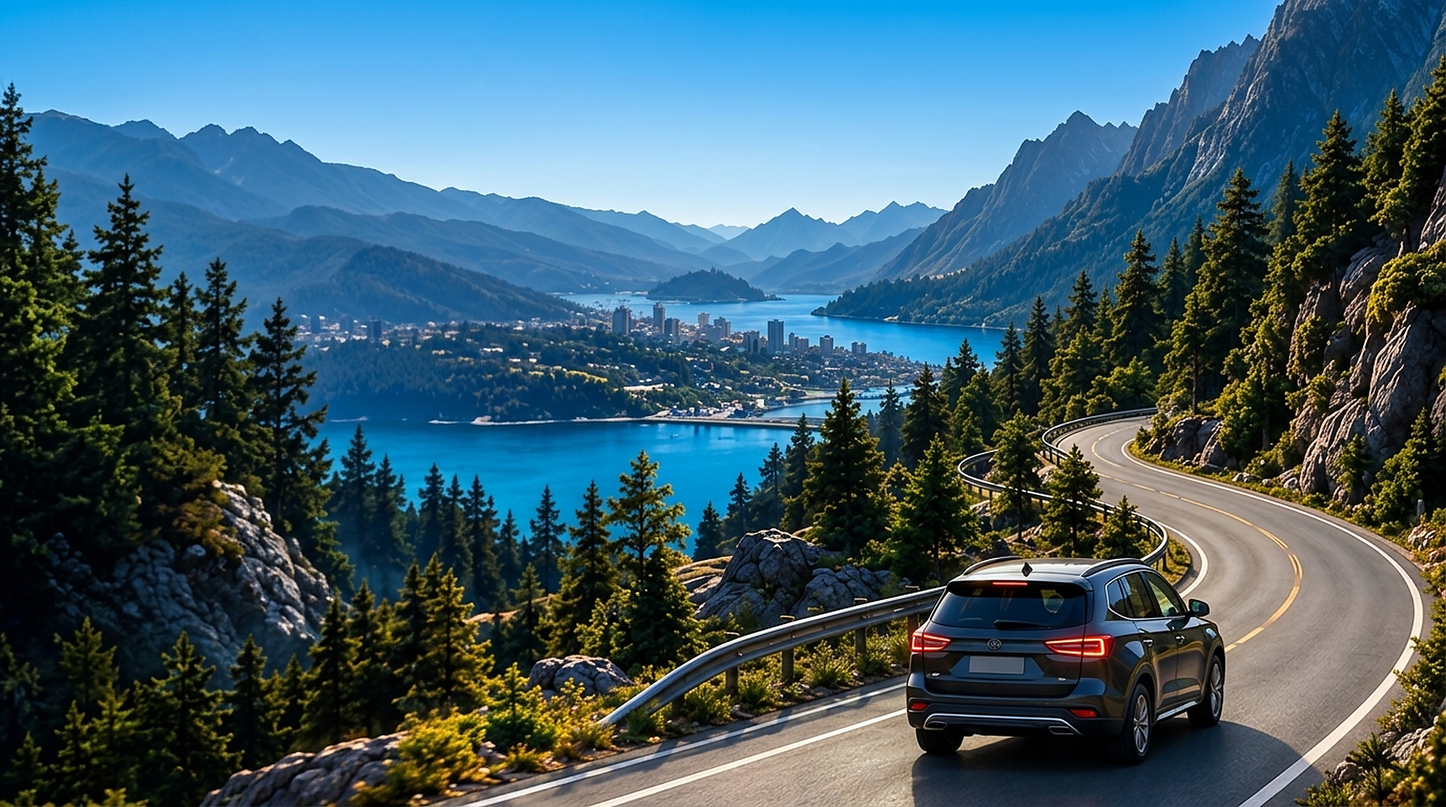
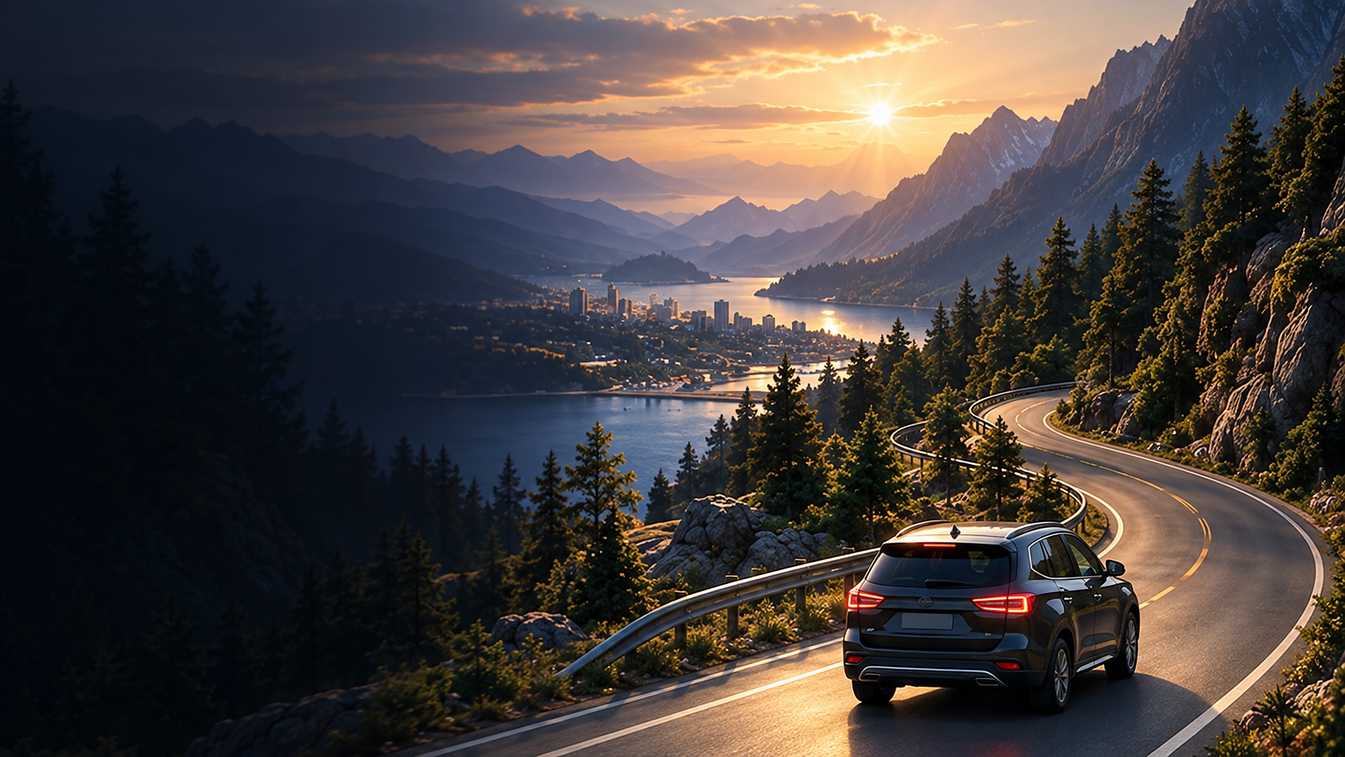
fix(landing): remove white light wash in day theme, deliver vibrant daylight scenery and crisp letters

diff --git a/web/index.html b/web/index.html
@@ -382,11 +382,11 @@
         }
 
         [data-theme="light"] .hero {
-            /* Atmospheric sunlit alpine sky & mountain valley fallback gradient (never black) */
+            /* Atmospheric sunlit alpine sky & mountain valley fallback gradient */
             background:
-                radial-gradient(ellipse 90% 60% at 50% 20%, rgba(191, 219, 254, 0.85) 0%, rgba(147, 197, 253, 0.5) 45%, rgba(224, 242, 254, 0.9) 75%),
-                linear-gradient(180deg, #eff6ff 0%, #dbeafe 30%, #bfdbfe 60%, #bae6fd 85%, #e4f0fb 100%);
-            background-color: #e4f0fb;
+                radial-gradient(ellipse 80% 60% at 75% 25%, rgba(251, 191, 36, 0.22) 0%, transparent 55%),
+                linear-gradient(180deg, #0b1e36 0%, #112a4b 35%, #18375e 70%, #0e233d 100%);
+            background-color: #0b1e36;
         }
 
         @keyframes heroCinematicMotion {
@@ -461,9 +461,9 @@
         .hero.hero-fallback-day[data-theme="light"],
         [data-theme="light"] .hero.hero-fallback-day {
             background:
-                radial-gradient(circle at 75% 25%, rgba(254, 240, 138, 0.4) 0%, transparent 40%),
-                radial-gradient(ellipse 100% 70% at 50% 20%, rgba(186, 230, 253, 0.9) 0%, rgba(147, 197, 253, 0.6) 45%, transparent 75%),
-                linear-gradient(180deg, #eff6ff 0%, #dbeafe 30%, #bfdbfe 60%, #bae6fd 85%, #e4f0fb 100%) !important;
+                radial-gradient(circle at 75% 25%, rgba(254, 240, 138, 0.35) 0%, transparent 40%),
+                radial-gradient(ellipse 100% 70% at 50% 20%, rgba(24, 55, 95, 0.85) 0%, rgba(15, 35, 65, 0.65) 45%, transparent 75%),
+                linear-gradient(180deg, #0b1e36 0%, #112a4b 30%, #18375e 60%, #142e4e 100%) !important;
         }
 
         .hero.hero-fallback-night[data-theme="dark"],
@@ -507,8 +507,8 @@
 
         [data-theme="light"] .hero-scrim {
             background:
-                radial-gradient(ellipse 75% 70% at 24% 45%, rgba(255, 255, 255, 0.72) 0%, rgba(255, 255, 255, 0.42) 50%, rgba(255, 255, 255, 0.08) 80%),
-                linear-gradient(180deg, rgba(235, 245, 255, 0.5) 0%, transparent 30%, transparent 70%, rgba(228, 240, 251, 0.98) 100%);
+                linear-gradient(180deg, rgba(8, 20, 38, 0.42) 0%, transparent 22%, transparent 72%, rgba(200, 222, 245, 0.8) 100%),
+                radial-gradient(ellipse 70% 65% at 24% 45%, rgba(6, 16, 32, 0.52) 0%, rgba(6, 16, 32, 0.22) 50%, transparent 80%);
         }
 
         .hero-content {
@@ -563,8 +563,8 @@
         }
 
         [data-theme="light"] .hero-title {
-            color: #081320;
-            text-shadow: 0 1px 2px rgba(255, 255, 255, 0.95);
+            color: #ffffff;
+            text-shadow: 0 4px 24px rgba(0, 0, 0, 0.7), 0 1px 3px rgba(0, 0, 0, 0.9);
         }
 
         @keyframes textShimmer {
@@ -581,30 +581,33 @@
             display: inline-block;
             animation: textShimmer 6s ease-in-out infinite;
             text-shadow: none !important;
-            filter: drop-shadow(0 2px 10px rgba(56, 189, 248, 0.35));
+            filter: drop-shadow(0 2px 10px rgba(56, 189, 248, 0.45));
         }
 
         [data-theme="light"] .hero-title .accent {
-            background: linear-gradient(135deg, #0369a1 0%, #1d4ed8 45%, #5b21b6 100%);
+            background: linear-gradient(135deg, #38bdf8 0%, #818cf8 45%, #c084fc 100%);
+            background-size: 200% auto;
             -webkit-background-clip: text;
             -webkit-text-fill-color: transparent;
+            display: inline-block;
+            animation: textShimmer 6s ease-in-out infinite;
             text-shadow: none !important;
-            filter: drop-shadow(0 1px 2px rgba(255, 255, 255, 0.9));
-            animation: none;
+            filter: drop-shadow(0 2px 10px rgba(56, 189, 248, 0.45));
         }
 
         .hero-lead {
             font-size: 1.15rem;
             line-height: 1.6;
-            color: rgba(255, 255, 255, 0.85);
+            color: rgba(255, 255, 255, 0.88);
             margin-bottom: 2.2rem;
             max-width: 520px;
+            text-shadow: 0 2px 12px rgba(0, 0, 0, 0.65);
         }
 
         [data-theme="light"] .hero-lead {
-            color: #0f172a;
-            font-weight: 600;
-            text-shadow: 0 1px 2px rgba(255, 255, 255, 0.9);
+            color: rgba(255, 255, 255, 0.92);
+            font-weight: 500;
+            text-shadow: 0 2px 12px rgba(0, 0, 0, 0.7);
         }
 
         /* ════════════════════════════════════════════════════════════════════
@@ -622,9 +625,11 @@
         }
 
         [data-theme="light"] .planner-card {
-            background: rgba(255, 255, 255, 0.88);
-            border-color: rgba(15, 23, 42, 0.12);
-            box-shadow: 0 30px 80px rgba(15, 23, 42, 0.12);
+            background: rgba(255, 255, 255, 0.94);
+            backdrop-filter: blur(28px) saturate(140%);
+            -webkit-backdrop-filter: blur(28px) saturate(140%);
+            border-color: rgba(255, 255, 255, 0.7);
+            box-shadow: 0 30px 80px rgba(10, 20, 35, 0.28), 0 0 0 1px rgba(255, 255, 255, 0.5);
         }
 
         /* Tabs (One Way / Around Trip / Vacation) */
